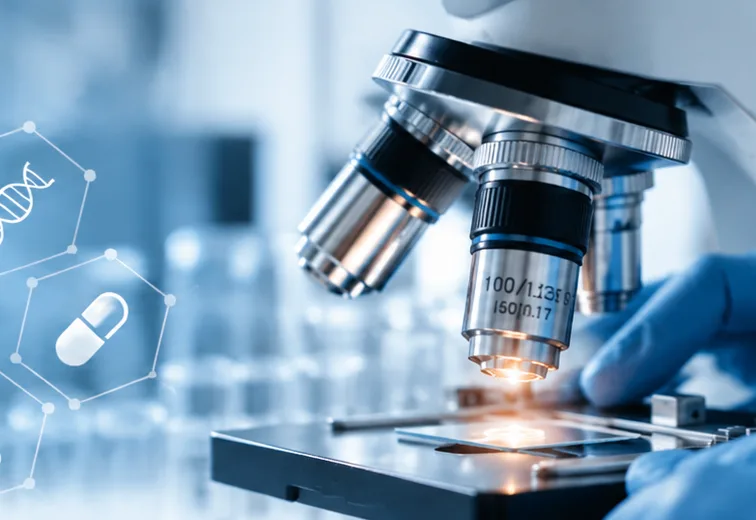
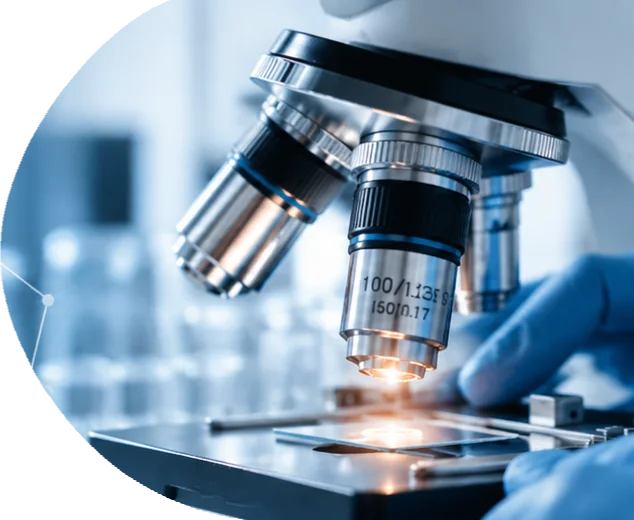
Match What Drives Us to the supplied artwork
The first pass got the panel's shape wrong, and everything else followed
from that. It was portrait (5:6), so object-fit had to magnify a
landscape photograph to fill it — which is why it read as oversized and
soft — and the crops were cut to the right of the painted arc, leaving
only ~600px of source to stretch across the panel.

Measured off the three section comps, which agree closely:

  · panel aspect        1.216 - 1.232, landscape
  · panel begins at     51.6% - 52.2% across the page
  · arc's leftmost at   46% - 49% down, i.e. mid-height

A correction to the previous commit: it claimed the five arcs disagreed
(21%, 21%, 37%, 55%, 73%) and drew a CSS curve because of it. Those
readings were picking up the magenta rule inside the baked-in value list,
not the arc. Searched past the list, the three comps' arcs all sit at
mid-height. The curve is consistent, so it is no longer approximated.

The curve is now the alpha channel of each photograph, lifted from the
comps themselves by tools/aboutcrop.mjs, so it is exactly the supplied
shape and the section's own pattern shows through it. Cropping from the
arc's leftmost point rather than past its far edge also recovers the
resolution that was being stretched: 959x786 of source where there was
600, at 37-60 KB each.

The two plain banners, whose arc sits near their left edge with the
subject centre-right, are cropped to the same 1.22 window anchored to
keep the subject and given the same mask.
[…]

diff --git a/src/components/ValuesIndex.tsx b/src/components/ValuesIndex.tsx
@@ -14,12 +14,16 @@ import { about } from "@/data/site";
  * bleeds off the edge of the page. Moving through the list is the whole
  * interaction — the artwork cross-fades and nothing else on screen moves.
  *
- * ── The curve ──────────────────────────────────────────────────────────────
- * The supplied artwork carried a curved left edge painted into the pixels,
- * against paper-100. It is a CSS shape here instead, because the five files
- * did not agree: the centre of the painted arc sat at 21%, 21%, 37%, 55% and
- * 73% of the way down its own image, so keeping them would have made the edge
- * jump as the reader moved down the index. One shape, five photographs.
+ * ── The panel's geometry, measured from the supplied comps ────────────────
+ * The three section comps agree closely, and the panel follows them: 1.22
+ * wide for 1 tall, beginning at 52% across the page and bleeding off the
+ * right edge. Getting this wrong is what made an earlier pass look wrong —
+ * a portrait panel meant `object-fit: cover` had to magnify a landscape
+ * photograph to fill it, which read as both oversized and soft.
+ *
+ * The curve is not drawn here. It is the alpha channel of each photograph,
+ * lifted from the comps by tools/aboutcrop.mjs, so the shape is exactly the
+ * supplied one and the section's own pattern shows through it.
  */
 export default function ValuesIndex() {
   const [active, setActive] = useState(0);
@@ -108,21 +112,22 @@ export default function ValuesIndex() {
           </ul>
 
           {/* ── Artwork ───────────────────────────────────────────── */}
-          <div className="lg:col-span-5 lg:col-start-8">
+          <div className="lg:col-span-6 lg:col-start-7">
             <div
               ref={panel}
-              className="relative aspect-4/5 overflow-hidden bg-paper-200 lg:sticky lg:top-32 lg:aspect-5/6 lg:mr-(--drives-bleed)"
+              className="relative aspect-[1.22] lg:mr-(--drives-bleed)"
               style={{
-                /* The left edge is one ellipse: a horizontal radius across a
-                   third of the panel, and a vertical radius of half its height
-                   on both corners so they meet mid-height in a single bulge. */
-                borderRadius: "34% 0 0 34% / 50% 0 0 50%",
-                /* Out to the right edge of the page, as the artwork does. The
-                   column's right edge is the shell's, so the distance left to
-                   travel is half of whatever the shell is not using. The
-                   section clips, so this can never scroll the page sideways. */
+                /* Out to the right edge of the page, as the artwork does.
+                   The column ends at the shell's content edge, so the distance
+                   left to travel is the shell's centring margin plus its own
+                   padding — both, which is what an earlier pass got wrong: it
+                   counted only the margin and so fell short by a gutter on any
+                   viewport wide enough for the shell to reach its max-width.
+                   The overshoot from 100vw including the scrollbar is a few
+                   pixels, and the section clips, so this can never scroll the
+                   page sideways. */
                 ["--drives-bleed" as string]:
-                  "calc((100vw - min(100vw - 2 * var(--spacing-gutter), 1560px)) / -2)",
+                  "calc(((100vw - min(100vw, 1560px)) / 2 + var(--spacing-gutter)) * -1)",
               }}
             >
               {warm
@@ -133,7 +138,7 @@ export default function ValuesIndex() {
                       alt={i === active ? v.imageAlt : ""}
                       fill
                       loading="eager"
-                      sizes="(min-width: 1024px) 48vw, 100vw"
+                      sizes="(min-width: 1024px) 50vw, 100vw"
                       aria-hidden={i !== active}
                       className={`object-cover transition-opacity duration-[800ms] ease-[cubic-bezier(0.16,1,0.3,1)] ${
                         i === active ? "opacity-100" : "opacity-0"
